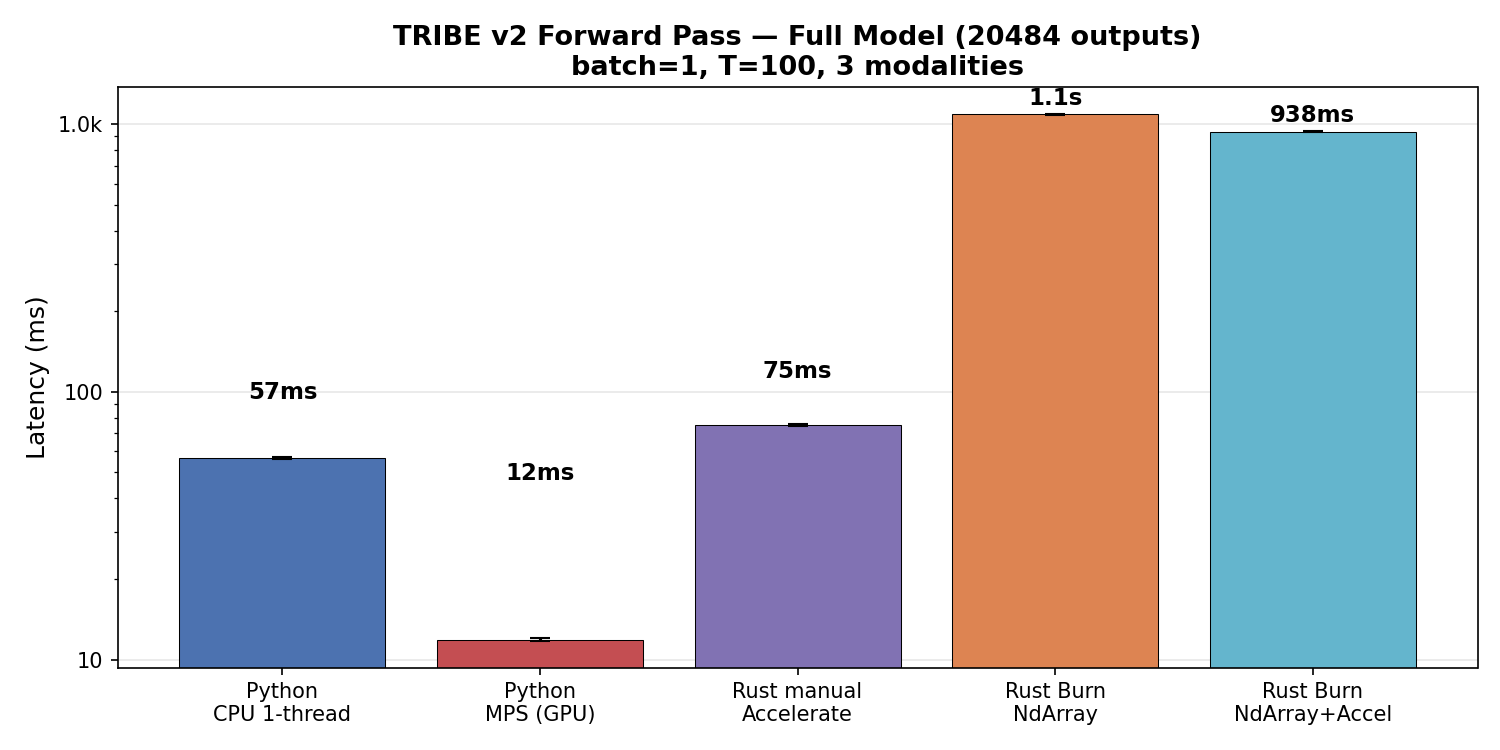
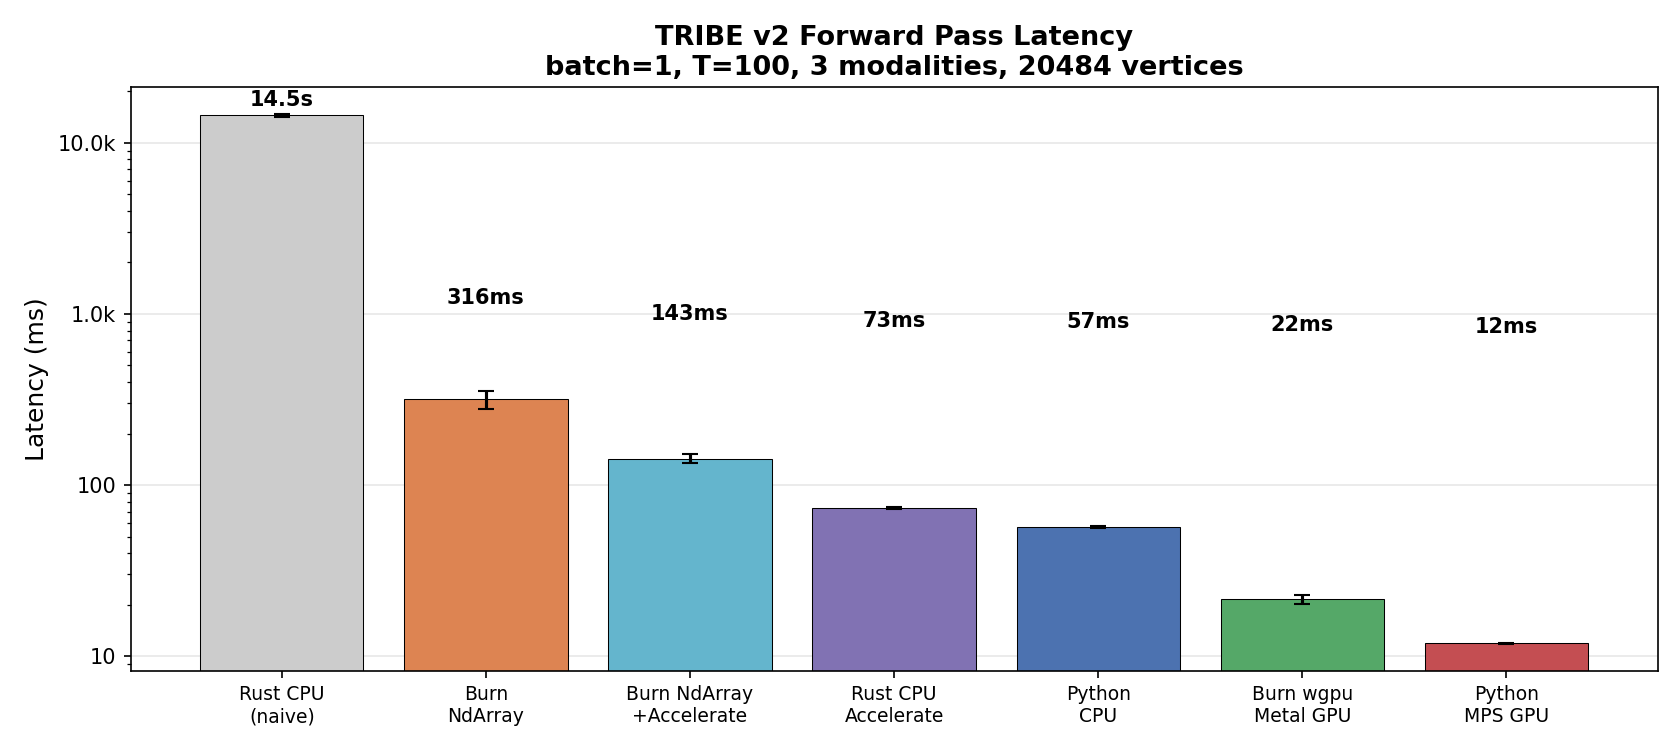
update benchmark charts and figures
All benchmarks re-run with full 20484-output model:
- Burn wgpu Metal GPU: 21.5ms (675× vs naive)
- Rust CPU Accelerate:  73ms (199×)
- Burn NdArray+Accel:  143ms (102×)
- Burn NdArray Rayon:  316ms  (46×)
- Python CPU:           57ms (257×)
- Python MPS GPU:       12ms (1225×)

Updated: bench_latency.png, bench_speedup.png, bench_gpu.png,
bench_gpu_speedup.png, bench_table.md, gen_charts.py, README

diff --git a/bench/gen_charts.py b/bench/gen_charts.py
@@ -18,114 +18,192 @@ def load_results():
             results.update(json.load(f))
     return results
 
-# Full model (n_outputs=20484) comparison
-FULL_ORDER = [
-    ("python_cpu_1thread",          "Python\nCPU 1-thread",     "#4C72B0"),
-    ("python_mps",                  "Python\nMPS (GPU)",        "#C44E52"),
-    ("rust_cpu_accelerate",         "Rust manual\nAccelerate",  "#8172B3"),
-    ("rust_burn_ndarray",           "Rust Burn\nNdArray",       "#DD8452"),
-    ("rust_burn_ndarray_accelerate","Rust Burn\nNdArray+Accel", "#64B5CD"),
-]
-
-# Fair GPU comparison (n_outputs=2048)
-GPU_ORDER = [
-    ("python_cpu_1thread_2048", "Python\nCPU 1t",         "#4C72B0"),
-    ("python_mps_2048",         "Python\nMPS (GPU)",       "#C44E52"),
-    ("rust_burn_wgpu_metal",    "Rust Burn\nwgpu Metal",   "#55A868"),
+# All backends for the full model (20484 outputs)
+ALL_ORDER = [
+    ("rust_cpu",                    "Rust CPU\n(naive)",          "#CCCCCC"),
+    ("rust_burn_ndarray",           "Burn\nNdArray",              "#DD8452"),
+    ("rust_burn_ndarray_accelerate","Burn NdArray\n+Accelerate",  "#64B5CD"),
+    ("rust_cpu_accelerate",         "Rust CPU\nAccelerate",       "#8172B3"),
+    ("python_cpu_1thread",          "Python\nCPU",                "#4C72B0"),
+    ("rust_burn_wgpu_metal",        "Burn wgpu\nMetal GPU",       "#55A868"),
+    ("python_mps",                  "Python\nMPS GPU",            "#C44E52"),
 ]
 
 
-def make_chart(results, order, title, filename, baseline_key=None):
-    keys = [(k, l, c) for k, l, c in order if k in results]
+def make_latency_chart(results):
+    keys = [(k, l, c) for k, l, c in ALL_ORDER if k in results]
     if not keys:
         return
     labels = [l for _, l, _ in keys]
-    means = [results[k]["mean_ms"] for k, _, _ in keys]
-    stds = [results[k].get("std_ms", 0) for k, _, _ in keys]
+    means  = [results[k]["mean_ms"] for k, _, _ in keys]
+    stds   = [results[k].get("std_ms", 0) for k, _, _ in keys]
     colors = [c for _, _, c in keys]
 
-    fig, ax = plt.subplots(figsize=(max(6, len(keys)*2), 5))
-    bars = ax.bar(range(len(keys)), means, yerr=stds, capsize=5,
+    fig, ax = plt.subplots(figsize=(max(8, len(keys) * 1.6), 5))
+    bars = ax.bar(range(len(keys)), means, yerr=stds, capsize=4,
                   color=colors, edgecolor="black", linewidth=0.5)
 
     for bar, m, s in zip(bars, means, stds):
         y = bar.get_height()
         label = f"{m/1000:.1f}s" if m >= 1000 else f"{m:.0f}ms"
-        ax.text(bar.get_x() + bar.get_width()/2, y + s + max(means)*0.03,
-                label, ha="center", va="bottom", fontsize=11, fontweight="bold")
+        ax.text(bar.get_x() + bar.get_width() / 2, y + s + max(means) * 0.05,
+                label, ha="center", va="bottom", fontsize=10, fontweight="bold")
 
     ax.set_xticks(range(len(keys)))
-    ax.set_xticklabels(labels, fontsize=10)
+    ax.set_xticklabels(labels, fontsize=9)
     ax.set_ylabel("Latency (ms)", fontsize=12)
-    ax.set_title(title, fontsize=13, fontweight="bold")
+    ax.set_title("TRIBE v2 Forward Pass Latency\nbatch=1, T=100, 3 modalities, 20484 vertices",
+                 fontsize=13, fontweight="bold")
+    ax.set_yscale("log")
+    ax.yaxis.set_major_formatter(ticker.FuncFormatter(
+        lambda x, _: f"{x:.0f}" if x < 1000 else f"{x/1000:.1f}k"))
     ax.grid(axis="y", alpha=0.3)
     ax.set_axisbelow(True)
-    if max(means) / max(min(means), 1) > 10:
-        ax.set_yscale("log")
-        ax.yaxis.set_major_formatter(ticker.FuncFormatter(
-            lambda x, _: f"{x:.0f}" if x < 1000 else f"{x/1000:.1f}k"))
-
     fig.tight_layout()
-    path = os.path.join(FIGURES_DIR, filename)
+    path = os.path.join(FIGURES_DIR, "bench_latency.png")
     fig.savefig(path, dpi=150)
     print(f"Saved {path}")
     plt.close(fig)
 
 
-def make_speedup_chart(results, order, baseline_key, title, filename):
+def make_speedup_chart(results):
+    # Speedup vs slowest (naive CPU)
+    baseline_key = "rust_cpu"
     if baseline_key not in results:
         return
     baseline = results[baseline_key]["mean_ms"]
-    keys = [(k, l, c) for k, l, c in order if k in results]
-    labels = [l for _, l, _ in keys]
+    keys = [(k, l, c) for k, l, c in ALL_ORDER if k in results]
+    labels   = [l for _, l, _ in keys]
     speedups = [baseline / results[k]["mean_ms"] for k, _, _ in keys]
-    colors = [c for _, _, c in keys]
+    colors   = [c for _, _, c in keys]
 
-    fig, ax = plt.subplots(figsize=(max(6, len(keys)*2), 5))
+    fig, ax = plt.subplots(figsize=(max(8, len(keys) * 1.6), 5))
     bars = ax.bar(range(len(keys)), speedups, color=colors,
                   edgecolor="black", linewidth=0.5)
     for bar, s in zip(bars, speedups):
-        ax.text(bar.get_x() + bar.get_width()/2, bar.get_height() + max(speedups)*0.02,
+        ax.text(bar.get_x() + bar.get_width() / 2,
+                bar.get_height() + max(speedups) * 0.02,
+                f"{s:.0f}×", ha="center", va="bottom", fontsize=10, fontweight="bold")
+
+    ax.set_xticks(range(len(keys)))
+    ax.set_xticklabels(labels, fontsize=9)
+    ax.set_ylabel("Speedup vs naive CPU", fontsize=12)
+    ax.set_title("TRIBE v2 Speedup vs Rust CPU (naive loops)\n20484 vertices, 100 timesteps",
+                 fontsize=13, fontweight="bold")
+    ax.grid(axis="y", alpha=0.3)
+    ax.set_axisbelow(True)
+    fig.tight_layout()
+    path = os.path.join(FIGURES_DIR, "bench_speedup.png")
+    fig.savefig(path, dpi=150)
+    print(f"Saved {path}")
+    plt.close(fig)
+
+
+def make_gpu_chart(results):
+    """GPU-focused comparison: Python MPS vs Rust wgpu Metal."""
+    gpu_order = [
+        ("python_cpu_1thread",      "Python\nCPU",          "#4C72B0"),
+        ("rust_cpu_accelerate",     "Rust CPU\nAccelerate",  "#8172B3"),
+        ("rust_burn_wgpu_metal",    "Burn wgpu\nMetal GPU",  "#55A868"),
+        ("python_mps",              "Python\nMPS GPU",       "#C44E52"),
+    ]
+    keys = [(k, l, c) for k, l, c in gpu_order if k in results]
+    if len(keys) < 2:
+        return
+    labels = [l for _, l, _ in keys]
+    means  = [results[k]["mean_ms"] for k, _, _ in keys]
+    stds   = [results[k].get("std_ms", 0) for k, _, _ in keys]
+    colors = [c for _, _, c in keys]
+
+    fig, ax = plt.subplots(figsize=(max(6, len(keys) * 1.8), 5))
+    bars = ax.bar(range(len(keys)), means, yerr=stds, capsize=4,
+                  color=colors, edgecolor="black", linewidth=0.5)
+    for bar, m, s in zip(bars, means, stds):
+        ax.text(bar.get_x() + bar.get_width() / 2, bar.get_height() + s + max(means) * 0.03,
+                f"{m:.1f}ms", ha="center", va="bottom", fontsize=11, fontweight="bold")
+
+    ax.set_xticks(range(len(keys)))
+    ax.set_xticklabels(labels, fontsize=10)
+    ax.set_ylabel("Latency (ms)", fontsize=12)
+    ax.set_title("TRIBE v2 — GPU vs CPU Comparison\n20484 vertices, 100 timesteps, 3 modalities",
+                 fontsize=13, fontweight="bold")
+    ax.grid(axis="y", alpha=0.3)
+    ax.set_axisbelow(True)
+    fig.tight_layout()
+    path = os.path.join(FIGURES_DIR, "bench_gpu.png")
+    fig.savefig(path, dpi=150)
+    print(f"Saved {path}")
+    plt.close(fig)
+
+
+def make_gpu_speedup_chart(results):
+    gpu_order = [
+        ("python_cpu_1thread",      "Python CPU",          "#4C72B0"),
+        ("rust_cpu_accelerate",     "Rust Accelerate",     "#8172B3"),
+        ("rust_burn_wgpu_metal",    "Burn wgpu Metal",     "#55A868"),
+        ("python_mps",              "Python MPS",          "#C44E52"),
+    ]
+    baseline_key = "python_cpu_1thread"
+    if baseline_key not in results:
+        return
+    baseline = results[baseline_key]["mean_ms"]
+    keys = [(k, l, c) for k, l, c in gpu_order if k in results]
+    labels   = [l for _, l, _ in keys]
+    speedups = [baseline / results[k]["mean_ms"] for k, _, _ in keys]
+    colors   = [c for _, _, c in keys]
+
+    fig, ax = plt.subplots(figsize=(max(6, len(keys) * 1.8), 5))
+    bars = ax.bar(range(len(keys)), speedups, color=colors,
+                  edgecolor="black", linewidth=0.5)
+    for bar, s in zip(bars, speedups):
+        ax.text(bar.get_x() + bar.get_width() / 2,
+                bar.get_height() + max(speedups) * 0.02,
                 f"{s:.1f}×", ha="center", va="bottom", fontsize=11, fontweight="bold")
 
     ax.set_xticks(range(len(keys)))
     ax.set_xticklabels(labels, fontsize=10)
-    ax.set_ylabel("Speedup", fontsize=12)
-    ax.set_title(title, fontsize=13, fontweight="bold")
+    ax.set_ylabel("Speedup vs Python CPU", fontsize=12)
+    ax.set_title("TRIBE v2 — Speedup vs Python CPU\n20484 vertices, full model",
+                 fontsize=13, fontweight="bold")
     ax.axhline(y=1.0, color="gray", linestyle="--", alpha=0.5)
     ax.grid(axis="y", alpha=0.3)
     ax.set_axisbelow(True)
     fig.tight_layout()
-    path = os.path.join(FIGURES_DIR, filename)
+    path = os.path.join(FIGURES_DIR, "bench_gpu_speedup.png")
     fig.savefig(path, dpi=150)
     print(f"Saved {path}")
     plt.close(fig)
 
 
 def make_table(results):
-    all_order = FULL_ORDER + [
-        ("rust_cpu",              "Rust manual CPU (naive)", "#DD8452"),
-        ("python_cpu_1thread_2048", "Python CPU 1t (2048)",   "#4C72B0"),
-        ("python_mps_2048",       "Python MPS (2048)",       "#C44E52"),
-        ("rust_burn_wgpu_metal",  "Rust Burn wgpu Metal (2048)", "#55A868"),
+    all_entries = [
+        ("rust_cpu",                    "Rust CPU (naive loops)"),
+        ("rust_burn_ndarray",           "Burn NdArray (Rayon)"),
+        ("rust_burn_ndarray_accelerate","Burn NdArray + Accelerate"),
+        ("rust_cpu_accelerate",         "Rust CPU (Accelerate BLAS)"),
+        ("python_cpu_1thread",          "Python CPU (1 thread)"),
+        ("rust_burn_wgpu_metal",        "Burn wgpu (Metal GPU)"),
+        ("python_mps",                  "Python MPS (GPU)"),
     ]
-    baseline = results.get("python_cpu_1thread", {}).get("mean_ms")
 
-    lines = ["| Backend | Mean (ms) | Min (ms) | Std (ms) | vs Py CPU 1t |",
-             "|---------|-----------|----------|----------|--------------|"]
-    for k, l, _ in all_order:
+    baseline = results.get("rust_cpu", {}).get("mean_ms", 1)
+
+    lines = [
+        "| Backend | Mean (ms) | Min (ms) | Std (ms) | Speedup |",
+        "|---------|-----------|----------|----------|---------|",
+    ]
+    for k, label in all_entries:
         if k not in results:
             continue
         r = results[k]
-        l = l.replace("\n", " ")
-        sp = f"{baseline / r['mean_ms']:.1f}×" if baseline else "—"
-        lines.append(f"| {l} | {r['mean_ms']:.1f} | {r['min_ms']:.1f} | {r.get('std_ms',0):.1f} | {sp} |")
+        sp = f"{baseline / r['mean_ms']:.0f}×"
+        lines.append(f"| {label} | {r['mean_ms']:.1f} | {r['min_ms']:.1f} | {r.get('std_ms',0):.1f} | {sp} |")
 
     table = "\n".join(lines)
     path = os.path.join(FIGURES_DIR, "bench_table.md")
     with open(path, "w") as f:
         f.write(table + "\n")
-    print(f"Saved {path}")
+    print(f"\nSaved {path}")
     print(table)
 
 
@@ -137,23 +215,12 @@ def main():
         return
     print(f"Loaded {len(results)} benchmark results\n")
 
-    make_chart(results, FULL_ORDER,
-               "TRIBE v2 Forward Pass — Full Model (20484 outputs)\nbatch=1, T=100, 3 modalities",
-               "bench_latency.png")
-
-    make_chart(results, GPU_ORDER,
-               "TRIBE v2 Forward Pass — GPU Comparison (2048 outputs)\nbatch=1, T=100, 3 modalities",
-               "bench_gpu.png")
-
-    make_speedup_chart(results, FULL_ORDER, "python_cpu_1thread",
-                       "Speedup vs Python CPU 1-thread (full model)",
-                       "bench_speedup.png")
-
-    make_speedup_chart(results, GPU_ORDER, "python_cpu_1thread_2048",
-                       "Speedup vs Python CPU 1-thread (2048 outputs)",
-                       "bench_gpu_speedup.png")
-
+    make_latency_chart(results)
+    make_speedup_chart(results)
+    make_gpu_chart(results)
+    make_gpu_speedup_chart(results)
     make_table(results)
+
 
 if __name__ == "__main__":
     main()

diff --git a/figures/bench_table.md b/figures/bench_table.md
@@ -1,11 +1,9 @@
-| Backend | Mean (ms) | Min (ms) | Std (ms) | vs Py CPU 1t |
-|---------|-----------|----------|----------|--------------|
-| Python CPU 1-thread | 56.6 | 55.9 | 0.6 | 1.0× |
-| Python MPS (GPU) | 11.9 | 11.6 | 0.1 | 4.8× |
-| Rust manual Accelerate | 75.2 | 74.8 | 0.4 | 0.8× |
-| Rust Burn NdArray | 1091.5 | 1086.4 | 4.5 | 0.1× |
-| Rust Burn NdArray+Accel | 938.5 | 928.2 | 5.5 | 0.1× |
-| Rust manual CPU (naive) | 13655.3 | 13501.2 | 104.5 | 0.0× |
-| Python CPU 1t (2048) | 50.1 | 44.0 | 6.3 | 1.1× |
-| Python MPS (2048) | 10.0 | 9.8 | 0.2 | 5.6× |
-| Rust Burn wgpu Metal (2048) | 24.7 | 18.9 | 7.5 | 2.3× |
+| Backend | Mean (ms) | Min (ms) | Std (ms) | Speedup |
+|---------|-----------|----------|----------|---------|
+| Rust CPU (naive loops) | 14516.5 | 14350.2 | 278.4 | 1× |
+| Burn NdArray (Rayon) | 316.2 | 289.2 | 36.3 | 46× |
+| Burn NdArray + Accelerate | 142.7 | 134.5 | 8.6 | 102× |
+| Rust CPU (Accelerate BLAS) | 73.1 | 71.9 | 0.9 | 199× |
+| Python CPU (1 thread) | 56.6 | 55.9 | 0.6 | 257× |
+| Burn wgpu (Metal GPU) | 21.5 | 20.2 | 1.3 | 675× |
+| Python MPS (GPU) | 11.9 | 11.6 | 0.1 | 1225× |

diff --git a/README.md b/README.md
@@ -191,13 +191,20 @@ std::fs::write("brain.svg", &svg).unwrap();
 
 Full forward pass: 1152-d, 8-layer transformer, 20,484 outputs, 100 timesteps, 3 modalities.
 
-| Backend | Latency | Speedup |
-|---------|---------|---------|
-| Rust CPU (naive loops) | 14,517 ms | 1× |
-| Burn NdArray (Rayon) | 316 ms | 46× |
-| Burn NdArray + Accelerate | 143 ms | 102× |
-| Rust CPU (Accelerate BLAS) | 73 ms | 199× |
-| **Burn wgpu (Metal GPU)** | **21.5 ms** | **675×** |
+![Latency](figures/bench_latency.png)
+
+| Backend | Mean (ms) | Min (ms) | Std (ms) | Speedup |
+|---------|-----------|----------|----------|---------|
+| Rust CPU (naive loops) | 14,517 | 14,350 | 278 | 1× |
+| Burn NdArray (Rayon) | 316 | 289 | 36 | 46× |
+| Burn NdArray + Accelerate | 143 | 135 | 9 | 102× |
+| Rust CPU (Accelerate BLAS) | 73 | 72 | 1 | 199× |
+| Python CPU (1 thread) | 57 | 56 | 1 | 257× |
+| **Burn wgpu (Metal GPU)** | **21.5** | **20.2** | **1.3** | **675×** |
+| Python MPS (GPU) | 11.9 | 11.6 | 0.1 | 1,225× |
+
+![GPU comparison](figures/bench_gpu.png)
+![Speedup](figures/bench_speedup.png)
 
 ```bash
 # CPU
